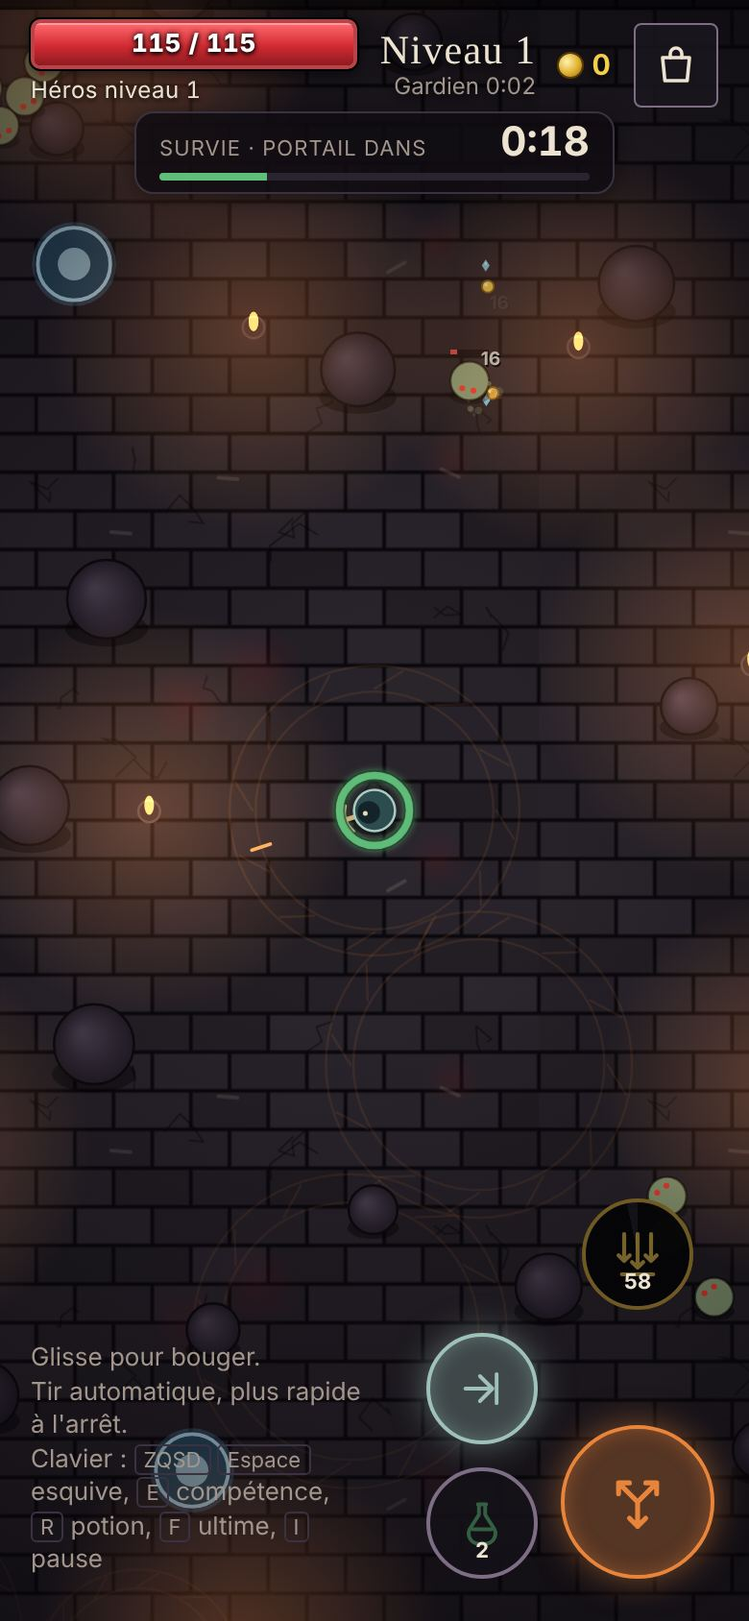
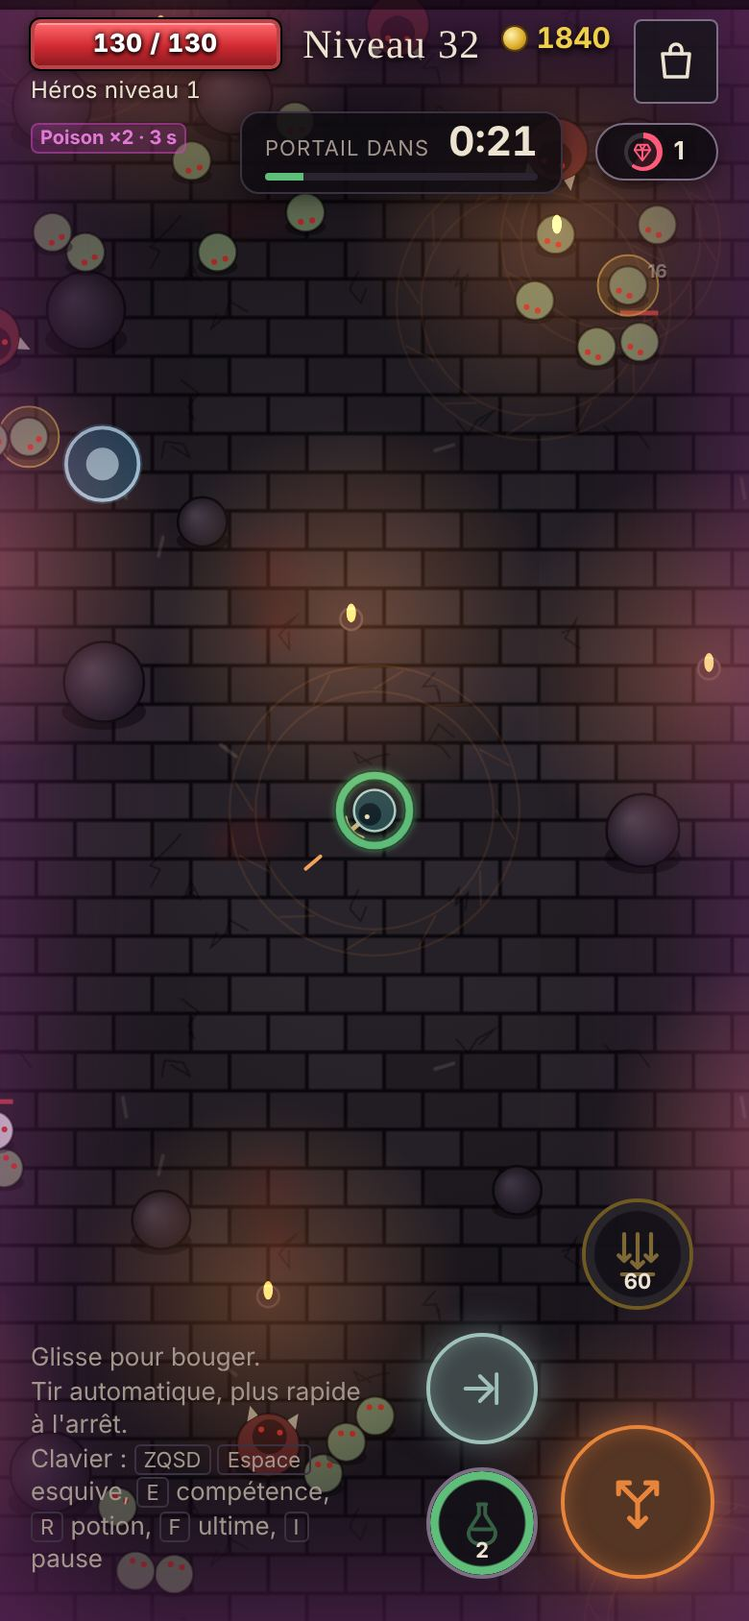
HUD, capture refonte

diff --git a/aide/index.html b/aide/index.html
@@ -283,9 +283,10 @@ details.more .tbl{margin:0 14px 14px}
   <div class="txt">
     <h2><small>Pendant la partie</small>En mission</h2>
     <ol class="legend">
-      <li><span><b>Barre de vie</b> en haut à gauche, avec tes PV écrits dedans. Le bleu par-dessus est ton bouclier. Sous 30 % de vie, la bordure clignote en rouge.</span></li>
-      <li><span><b>Niveau et alertes</b> : niveau de mission (ou vague). Dessous : « Gardien en approche » dans les 10 s qui précèdent un Gardien (Survie et Capture) et pendant la pause avant une vague à Gardien (Défense), la vague de sortie en Défense, et l'<b>icône de relique</b> avec le nombre de reliques ouvertes. L'icône prend la couleur de la relique en cours et son anneau se remplit avec les réactifs ramassés. Aucun minuteur de Gardien n'est affiché. Le temps avant le portail ou la vague suivante est dans le bandeau d'objectif.</span></li>
-      <li><span><b>Bandeau d'objectif</b> (au centre, sous le haut de l'écran) : ce qu'il faut faire et la valeur à surveiller, en grand, avec une jauge. Survie : temps avant le portail (orange et pulsant sous 15 s). Capture : les trois étapes, 1/3 mettre la cible à terre (distance), 2/3 la capturer (pourcentage), 3/3 rejoindre l'extraction (distance, puis pourcentage). Défense : temps avant la vague suivante ou ennemis restants, jauge = vie du cryopode.</span></li>
+      <li><span><b>Barre de vie</b> en haut à gauche, avec tes PV écrits dedans. Le bleu par-dessus est ton bouclier. Sous 30 % de vie, la bordure clignote en rouge. Dessous, en colonne : tes <b>altérations</b> (Poison, Brûlure, Gelure) et la Frénésie, avec les secondes restantes.</span></li>
+      <li><span><b>Niveau et alertes</b> : niveau de mission (Survie), vague (Défense) ou nombre de captures (Capture). Dessous : « Gardien en approche » dans les 10 s qui précèdent un Gardien (Survie et Capture) et pendant la pause avant une vague à Gardien (Défense), la vague de sortie en Défense, et en Capture la distance de l'extraction ou le délai avant la cible suivante. Aucun minuteur de Gardien n'est affiché. Le temps avant le portail ou la vague suivante est dans le bandeau d'objectif.</span></li>
+      <li><span><b>Reliques</b> : pastille à l'extrême droite, sous le sac, quand tu as équipé des reliques. L'icône prend la couleur de la relique en cours, son anneau se remplit avec les réactifs ramassés, et le nombre compte les reliques ouvertes.</span></li>
+      <li><span><b>Bandeau d'objectif</b> (au centre, en 2e ligne, entre les altérations et les reliques) : ce qu'il faut faire et la valeur à surveiller, en grand, avec une jauge. Survie : « Portail dans » et le temps (orange et pulsant sous 15 s). Capture : « Traque la cible 2 » (distance, la jauge montre ses PV perdus), « Capture la cible 2 » (pourcentage), « Vers l'extraction » (distance), « Reste dans la zone » (pourcentage). Défense : « Vague suivante » (temps) ou « Ennemis restants », jauge = vie du cryopode. Les barres du Gardien et du cryopode s'empilent dessous : aucun élément du haut de l'écran n'en recouvre un autre, et les flèches vers les Gardiens, la cible, l'extraction et les sources restent sous le HUD.</span></li>
       <li><span><b>Or</b> ramassé pendant la mission.</span></li>
       <li><span><b>Sac</b> : met en pause. Le butin de la partie vient en premier (▲ sur ce qui est meilleur que ton équipement, « Équiper le meilleur butin »), puis tes bonus, ton équipement, trois chiffres clés, et repliés : toutes les statistiques et les mods. Toucher un objet ouvre sa fiche en bas avec « Équiper maintenant ». Le sac s'ouvre aussi tout seul quand tu changes d'appli ou que l'écran s'éteint : la mission t'attend (en coopération, le monde continue pour les autres). En haut, à côté de la croix : Guide et Réglages. En bas : <b>Retour au Camp</b> et <b>Reprendre</b>. Retour au Camp demande confirmation : la mission est abandonnée et tout ce que tu as trouvé dans ce niveau est perdu (objets, reliques, or et expérience) ; tes reliques équipées ne sont pas consommées. Une pastille signale du nouveau butin.</span></li>
       <li><span><b>Anneau de vie</b> autour du héros : vert, puis jaune, puis rouge pulsant.</span></li>
@@ -320,14 +321,14 @@ details.more .tbl{margin:0 14px 14px}
       <tbody>
         <tr><td><b>Survie</b></td><td>Tenir face aux hordes. Toutes les 2 minutes, un portail s'ouvre : sortir ou continuer au niveau suivant.</td><td>1 relique par manche</td></tr>
         <tr><td><b>Défense</b></td><td>Protéger le cryopode au centre de la carte. Toutes les 3 vagues : sortir ou continuer.</td><td>1 relique et 1 équipement</td></tr>
-        <tr><td><b>Capture</b></td><td>Mettre la cible à terre, rester près d'elle pour la capturer, puis tenir 3 s dans la zone d'extraction. Une flèche dorée la montre.</td><td>1 relique et de l'or</td></tr>
+        <tr><td><b>Capture</b></td><td>Mettre la cible à terre et rester près d'elle pour la capturer. Une nouvelle cible arrive 5 s après chaque capture : enchaîne tant que tu veux, puis tiens 3 s dans la zone d'extraction, ouverte dès la 1re capture. Une flèche dorée montre la cible, une verte l'extraction.</td><td>1 relique de la difficulté (Tourment compris) et de l'or par capture</td></tr>
         <tr><td><b style="color:#ff5fd2">Brèche</b></td><td>À plusieurs seulement (voir <a href="#coop">Coopération</a>). Survie où les Gardiens arrivent par paires de jumeaux à abattre ensemble, en moins de 8 s.</td><td>comme la Survie, plus éclats et sceaux légendaires</td></tr>
       </tbody>
     </table></div>
     <h3>Défense et Capture en détail</h3>
     <ul>
       <li><b>Défense</b> : chaque vague compte un peu plus de monstres que la précédente, et davantage aux niveaux élevés (80 au maximum). Six monstres sur dix visent le cryopode, qui encaisse leurs coups à 60 %. Entre deux vagues, 4 s de répit, et le cryopode récupère 8 % de sa vie (30 % quand tu choisis de continuer). Toutes les 3 vagues : un Gardien, puis une relique, un équipement magique ou mieux, et le choix de sortir.</li>
-      <li><b>Capture</b> : la cible fuit quand tu approches et se téléporte un peu plus loin toutes les 4 à 6 s si tu la serres de près. Mets-la à terre : elle n'est alors plus visée ni touchée par tes attaques, qui se tournent vers les autres monstres. Reste 2,5 s à côté d'elle pour la capturer, puis rejoins la zone d'extraction et tiens-y 3 s (la jauge redescend si tu en sors).</li>
+      <li><b>Capture</b> : la cible fuit quand tu approches et se téléporte un peu plus loin toutes les 4 à 6 s si tu la serres de près. Mets-la à terre : elle n'est alors plus visée ni touchée par tes attaques, qui se tournent vers les autres monstres. Reste 2,5 s à côté d'elle pour la capturer. Chaque capture rapporte une relique de la difficulté choisie, quel que soit le niveau de mission, et 60 or par niveau de mission : Ossuaire en Normal, Difficile et Cauchemar ; Ancestrale en Tourment I à V ; Sanguine en Tourment VI et plus, ou plus rarement Abyssale. Les autres reliques (monstres, Gardiens, fins de manche) gardent leur niveau minimum. La zone d'extraction s'ouvre à la première capture et ne bouge plus. Tant que tu n'es pas extrait, une nouvelle cible apparaît 5 s après chaque capture, loin de toi : tu enchaînes autant de captures que tu veux. Pour rentrer avec tout, tiens 3 s dans la zone d'extraction (la jauge redescend si tu en sors).</li>
     </ul>
     <h3>Sortir ou continuer</h3>
     <p><b>Sortir avec le butin</b> garde tout ce que tu as ramassé. <b>Continuer</b> fait monter le niveau : monstres plus forts, meilleur butin, et le niveau atteint devient disponible comme niveau de départ.</p>
@@ -591,7 +592,7 @@ details.more .tbl{margin:0 14px 14px}
     <h3>Fusion</h3>
     <p>Si la cible a déjà cette affixe, les deux valeurs fusionnent : la plus forte + 50 % de la plus faible, 3 fois au maximum par affixe.</p>
     <h3>Chercher par affixe</h3>
-    <p>La liste regroupe toutes les affixes de tes objets, filtrables en Offensives, Défensives et Utilitaires, avec la meilleure valeur et l'objet qui la porte. Ouvre une affixe : chaque objet qui la porte (armes comprises) a deux boutons, <b>Source</b> (l'objet sera détruit et cette affixe prise) et <b>Cible</b> (l'objet reçoit l'affixe). Tout objet peut être source, armes comprises, sauf les objets verrouillés et les armes de départ : ceux-là n'ont que le bouton Cible. Une arme détruite comme source est remplacée par un de ses doubles s'il y en a, sinon le héros reprend son arme de départ. L'objet choisi affiche une pastille « − Source » ou « + Cible ».</p>
+    <p>La liste regroupe toutes les affixes de tes objets, filtrables en Offensives, Défensives et Utilitaires, avec la meilleure valeur et l'objet qui la porte. Ouvre une affixe : tous les objets qui la portent (armes comprises), de la meilleure valeur à la plus faible, ont deux boutons, <b>Source</b> (l'objet sera détruit et cette affixe prise) et <b>Cible</b> (l'objet reçoit l'affixe). Tout objet peut être source, armes comprises, sauf les objets verrouillés et les armes de départ : ceux-là n'ont que le bouton Cible. Une arme détruite comme source est remplacée par un de ses doubles s'il y en a, sinon le héros reprend son arme de départ. L'objet choisi affiche une pastille « − Source » ou « + Cible ».</p>
     <h3>Alertes de butin</h3>
     <p>Coche les affixes que tu recherches : en mission, un flash t'avertira quand l'une tombe avec une meilleure valeur que ton équipement.</p>
     <h3>Sceaux légendaires</h3>
@@ -678,7 +679,7 @@ details.more .tbl{margin:0 14px 14px}
     <div class="tbl"><table>
       <thead><tr><th>Sujet</th><th>En coopération</th></tr></thead>
       <tbody>
-        <tr><td>Mission</td><td>Survie, Défense, Capture ou Brèche, au niveau, biome et difficulté choisis par l'hôte. En Capture, n'importe quel héros debout capture la cible et valide l'extraction ; chacun reçoit sa relique de capture. En Défense, le cryopode est commun.</td></tr>
+        <tr><td>Mission</td><td>Survie, Défense, Capture ou Brèche, au niveau, biome et difficulté choisis par l'hôte. En Capture, n'importe quel héros debout capture la cible et valide l'extraction ; chacun reçoit sa relique à chaque capture, et la cible suivante est la même pour tous. En Défense, le cryopode est commun.</td></tr>
         <tr><td>Monstres</td><td>Partagés ; par joueur en plus, +50 % de vie et 40 % plus nombreux (à 4 : vie ×2,5, nombre ×2,2) ; ils visent le héros debout le plus proche</td></tr>
         <tr><td>Héros</td><td>Chacun joue le héros choisi sur son propre téléphone, avec l'équipement, les mods, le prestige et les reliques enregistrés sur cet appareil. Il peut changer de héros sur l'écran d'accueil entre deux missions, autant qu'il veut, sans couper la connexion.</td></tr>
         <tr><td>Noms</td><td>Chaque joueur apparaît sous son nom, précédé du niveau de prestige du héros qu'il joue (pastille dorée) : dans la liste des joueurs, dans les messages et au-dessus de lui en mission. Le nom se règle dans <a href="#reglages">Réglages › Compte</a> ; sans nom, c'est ton identifiant unique (Joueur-XXXXX). Changer de nom, de héros ou de prestige se voit tout de suite chez les autres, sans couper la connexion.</td></tr>

diff --git a/js/render.js b/js/render.js
@@ -179,8 +179,8 @@ function render2D(){
   // écran : flèches vers les Gardiens, joystick
   ctx.setTransform(dpr,0,0,dpr,0,0);
   const arrow=(wx,wy,col,label)=>{if(vis(wx,wy,-10))return;
-    const a=Math.atan2(wy-G.cam.y,wx-G.cam.x),cx=innerWidth/2,cy=innerHeight/2,hw=innerWidth/2-34,hh=innerHeight/2-130;
-    const k=Math.min(hw/Math.abs(Math.cos(a)||1e-6),hh/Math.abs(Math.sin(a)||1e-6)),x=cx+Math.cos(a)*k,y=cy+Math.sin(a)*k;
+    const a=Math.atan2(wy-G.cam.y,wx-G.cam.x),cx=innerWidth/2,cy=innerHeight/2;
+    const k=arrowK(a,cx,cy),x=cx+Math.cos(a)*k,y=cy+Math.sin(a)*k;
     ctx.save();ctx.translate(x,y);ctx.rotate(a);ctx.fillStyle=col;ctx.strokeStyle='#120c16';ctx.lineWidth=2;ctx.beginPath();ctx.moveTo(14,0);ctx.lineTo(-8,-10);ctx.lineTo(-3,0);ctx.lineTo(-8,10);ctx.closePath();ctx.fill();ctx.stroke();ctx.restore();
     if(label){ctx.font="700 12px 'Alegreya Sans',system-ui,sans-serif";ctx.textAlign='center';ctx.fillStyle='#000';ctx.fillText(label,x-Math.cos(a)*26+1,y-Math.sin(a)*26+5);ctx.fillStyle=col;ctx.fillText(label,x-Math.cos(a)*26,y-Math.sin(a)*26+4)}};
   const m=(x,y)=>`${Math.round(Math.hypot(x-P.x,y-P.y)/10)} m`;
@@ -202,6 +202,14 @@ const setTx=(id,v)=>{const e=el(id);if(e._v!==v){e._v=v;e.textContent=v}};
 const setSt=(id,p,v)=>{const e=el(id),k='_s'+p;if(e[k]!==v){e[k]=v;e.style.setProperty(p,v)}};
 const setCls=(id,c,on)=>{const e=el(id);if(e.classList.contains(c)!==on)e.classList.toggle(c,on)};
 const setHid=(id,h)=>{const e=el(id);if(e.hidden!==h)e.hidden=h};
+// Flèches hors écran (Gardiens, cible, extraction, cryopode, source) : elles restent sous le HUD du haut, mesuré
+// (1re ligne, altérations, colonne du milieu, reliques), et au-dessus des boutons, pour ne jamais passer sur le HUD.
+let hudBot=0,hudBotAt=-1e9;
+function hudBottom(){const now=performance.now();if(now-hudBotAt<400)return hudBot;hudBotAt=now;let b=0;
+  for(const s of ['.hud','#hpBox .sts','.hudmid','#relHud']){const e=document.querySelector(s);if(!e||e.hidden)continue;const r=e.getBoundingClientRect();if(r.height>0)b=Math.max(b,r.bottom)}
+  return hudBot=b}
+function arrowK(a,cx,cy){const T=Math.min(cy-40,Math.max(130,hudBottom()+30)),B=innerHeight-130,c=Math.cos(a),s=Math.sin(a);
+  return Math.min(c>0?(innerWidth-34-cx)/c:c<0?(cx-34)/-c:1e9,s<0?(cy-T)/-s:s>0?(B-cy)/s:1e9)}
 function hud(){
   const P=G.P,r3=v=>Math.max(0,v).toFixed(3);
   setSt('hpFill','transform',`scaleX(${r3(P.hp/S.hp)})`);
@@ -211,14 +219,16 @@ function hud(){
   setSt('xpFill','transform',`scaleX(${r3(Math.min(1,G.xp/xpNeed(G.hl)))})`);
   const dm=(x,y)=>`${Math.round(Math.hypot(x-P.x,y-P.y)/10)} m`;let hot=false;
   let ok='',ov='',op=null,oc='#f0cf4a';
-  if(G.mode==='survie'){const left=Math.max(0,LEVEL_T-G.tl);hot=left<=15;setTx('lvlTxt',`Niveau ${G.level}`);ok='Survie · portail dans';ov=fmt(left);op=G.tl/LEVEL_T;oc='#5fbf7a';{const g=G.bossT<=10?'Gardien en approche':'';setTx('bossTxt',g);setHid('bossTxt',!g)}}
-  else if(G.mode==='defense'){setTx('lvlTxt',`Vague ${Math.max(1,G.wave)}`);if(G.waveState==='break'){ok='Défense · vague suivante';ov=fmt(G.waveT)}else{ok='Défense · ennemis restants';ov=String(G.toSpawn+G.en.length)}op=G.pod.hp/G.pod.max;oc='#8fd3e0';
+  if(G.mode==='survie'){const left=Math.max(0,LEVEL_T-G.tl);hot=left<=15;setTx('lvlTxt',`Niveau ${G.level}`);ok='Portail dans';ov=fmt(left);op=G.tl/LEVEL_T;oc='#5fbf7a';{const g=G.bossT<=10?'Gardien en approche':'';setTx('bossTxt',g);setHid('bossTxt',!g)}}
+  else if(G.mode==='defense'){setTx('lvlTxt',`Vague ${Math.max(1,G.wave)}`);if(G.waveState==='break'){ok='Vague suivante';ov=fmt(G.waveT)}else{ok='Ennemis restants';ov=String(G.toSpawn+G.en.length)}op=G.pod.hp/G.pod.max;oc='#8fd3e0';
     {const g=G.waveState==='break'&&(G.wave+1)%DEF_N===0?'Gardien en approche':`Sortie vague ${Math.ceil(Math.max(1,G.wave+(G.waveState==='break'?1:0))/DEF_N)*DEF_N}`;setTx('bossTxt',g);setHid('bossTxt',false)}setSt('objFill','transform',`scaleX(${r3(G.pod.hp/G.pod.max)})`);hot=G.pod.hp<G.pod.max*.3}
-  else{setTx('lvlTxt','Capture');const t=G.target;
-    if(G.exitPt){ok=G.extT>0?'3/3 · reste dans la zone':'3/3 · rejoins l\'extraction';ov=G.extT>0?`${Math.min(100,Math.round(G.extT/EXT_T*100))} %`:dm(G.exitPt.x,G.exitPt.y);op=G.extT/EXT_T;oc='#5fbf7a';hot=true}
-    else if(t&&t.downed){ok='2/3 · capture la cible';ov=`${Math.round(G.capT/2.5*100)} %`;op=G.capT/2.5}
-    else if(t){ok='1/3 · mets la cible à terre';ov=dm(t.x,t.y);op=1-t.hp/t.max}
-    {const g=G.bossT<=10?'Gardien en approche':'';setTx('bossTxt',g);setHid('bossTxt',!g)}}
+  else{const t=G.target,ex=G.exitPt,c=G.capN|0,n=c+1;setTx('lvlTxt',c?`${c} capture${c>1?'s':''}`:'Capture');
+    // Capture en chaîne : la zone d'extraction reste ouverte après la 1re capture, la cible suivante arrive peu après.
+    if(ex&&G.extT>0){ok='Reste dans la zone';ov=`${Math.min(100,Math.round(G.extT/EXT_T*100))} %`;op=G.extT/EXT_T;oc='#5fbf7a';hot=true}
+    else if(t&&t.downed){ok=`Capture la cible ${n}`;ov=`${Math.round(G.capT/2.5*100)} %`;op=G.capT/2.5}
+    else if(t){ok=`Traque la cible ${n}`;ov=dm(t.x,t.y);op=1-t.hp/t.max}
+    else if(ex){ok='Vers l\'extraction';ov=dm(ex.x,ex.y);op=0;oc='#5fbf7a'}
+    {const g=G.bossT<=10?'Gardien en approche':ex&&t?`Extraction · ${dm(ex.x,ex.y)}`:ex&&G.nextTgt>0?`Cible ${n} dans ${Math.ceil(G.nextTgt)} s`:'';setTx('bossTxt',g);setHid('bossTxt',!g)}}
   setTx('objK',ok);setTx('timeTxt',ov);setHid('objBox',!ok);setSt('objFill2','transform',`scaleX(${op==null?0:r3(Math.max(0,Math.min(1,op)))})`);setSt('objFill2','--c',oc);setCls('objBox','hot',hot);
   // Reliques : icône à la couleur de la relique en cours (anneau = réactifs ramassés) et nombre de reliques ouvertes
   setHid('relHud',!G.relQ.length);if(G.relQ.length){const r=G.relic||G.opened[G.opened.length-1]||G.relQ[0];setTx('relN',String(G.opened.length));
@@ -460,8 +470,8 @@ function renderPixi(){
   // interface : flèches, joystick
   const g=L.uiG;g.clear();
   const arrow=(wx,wy,col,label)=>{if(vis(wx,wy,-10))return;const c=hexc(col);
-    const a=Math.atan2(wy-G.cam.y,wx-G.cam.x),cx=innerWidth/2,cy=innerHeight/2,hw=innerWidth/2-34,hh=innerHeight/2-130;
-    const k=Math.min(hw/Math.abs(Math.cos(a)||1e-6),hh/Math.abs(Math.sin(a)||1e-6)),x=cx+Math.cos(a)*k,y=cy+Math.sin(a)*k,ca=Math.cos(a),sa=Math.sin(a);
+    const a=Math.atan2(wy-G.cam.y,wx-G.cam.x),cx=innerWidth/2,cy=innerHeight/2;
+    const k=arrowK(a,cx,cy),x=cx+Math.cos(a)*k,y=cy+Math.sin(a)*k,ca=Math.cos(a),sa=Math.sin(a);
     const pt=(px,py)=>[x+px*ca-py*sa,y+px*sa+py*ca];
     g.lineStyle(2,0x120c16,1);g.beginFill(c,1);g.moveTo(...pt(14,0));g.lineTo(...pt(-8,-10));g.lineTo(...pt(-3,0));g.lineTo(...pt(-8,10));g.closePath();g.endFill();
     if(label){const b=take(PP.utxt);if(b.text!==label)b.text=label;b.fontSize=12;b.tint=c;b.alpha=1;b.position.set(x-ca*26,y-sa*26+6)}};

diff --git a/js/game.js b/js/game.js
@@ -28,7 +28,7 @@ function newGame(){
   G.cam={x:G.P.x,y:G.P.y};
   genMap();
   G.biome=clamp(meta.biome|0,0,BIOMES.length-1);if(floorPat&&floorPat.__b!==G.biome)floorPat=null;
-  G.mode=meta.mode==='breche'?'survie':meta.mode;G.relic=null;G.react=0;G.cracked=false;G.ult=0;G.bossT=bossIv();G.pod=null;G.target=null;G.exitPt=null;G.capT=0;G.extT=0;
+  G.mode=meta.mode==='breche'?'survie':meta.mode;G.relic=null;G.react=0;G.cracked=false;G.ult=0;G.bossT=bossIv();G.pod=null;G.target=null;G.exitPt=null;G.capT=0;G.extT=0;G.capN=0;G.nextTgt=0;
   relicQFix();G.relQ=meta.relicQ.map(q=>({id:q.id,rad:!!q.rad}));G.relI=0;G.opened=[];G.relic=G.relQ[0]||null;
   if(G.mode==='defense'){const m=1200*(1+.5*(L-1));G.pod={x:MAP/2,y:MAP/2,r:28,hp:m,max:m,flash:0};G.pillars.push(G.pod);G.P.y+=110;G.cam.y=G.P.y;G.wave=0;G.waveState='break';G.waveT=3;G.toSpawn=0}
   if(G.mode==='capture'){spawnTarget()}
@@ -50,13 +50,17 @@ function genMap(){
   G.wells=[];for(let i=0;i<6;i++){const w={r:30,on:true,cd:0};placeWell(w);G.wells.push(w)}
 }
 function farPoint(dmin){const P=G.P;for(let k=0;k<300;k++){const x=rand(160,MAP-160),y=rand(160,MAP-160);if(Math.hypot(x-P.x,y-P.y)>=dmin&&!blocked(x,y,60))return {x,y}}return {x:MAP-200,y:MAP-200}}
+// Capture : après chaque capture, tant qu'on ne s'est pas extrait, une nouvelle cible apparaît (CAP_NEXT secondes plus tard).
+// Chaque capture rapporte une relique de la difficulté et du Tourment, sans le plafond de niveau de mission des autres reliques
+// (relicDrop(true)). Les autres sources de reliques ne changent pas.
+const CAP_NEXT=5;
 function spawnTarget(){
   const p=farPoint(900),{hs}=diff();
-  G.target={type:'cible',x:p.x,y:p.y,r:18,hp:260*hs,max:260*hs,spd:175,dmg:0,col:'#a8874a',flash:0,hitCd:0,kx:0,ky:0,burnT:0,burnDps:0,burnAcc:0,
+  G.target={id:++G.eid,type:'cible',x:p.x,y:p.y,r:18,hp:260*hs,max:260*hs,spd:175,dmg:0,col:'#a8874a',flash:0,hitCd:0,kx:0,ky:0,burnT:0,burnDps:0,burnAcc:0,
     state:'walk',slow:0,timer:0,blink:4,shown:0,wob:rand(0,6),downed:false};
   G.en.push(G.target);
 }
-function relicDrop(){return ['os','an','sa','ab'][relicTierNow()]}
+function relicDrop(free){return ['os','an','sa','ab'][relicTierNow(free)]}
 const LV_MAX=50;
 const lootMul=L=>1+.06*(L-1);
 const goldMul=L=>1+.15*(L-1);
@@ -264,8 +268,8 @@ function explode(s,primary,frost){
 function fireE(e,a,sp,d,r=7){G.eb.push({id:++G.bid,x:e.x+Math.cos(a)*e.r,y:e.y+Math.sin(a)*e.r,vx:Math.cos(a)*sp,vy:Math.sin(a)*sp,d,r,life:4})}
 function ring(e,n,sp){e.rot+=.27;for(let i=0;i<n;i++)fireE(e,e.rot+i/n*Math.PI*2,sp,e.dmg*.55,8)}
 // Récompense de capture (chaque joueur reçoit la sienne).
-function capReward(){const r=relicDrop();G.loot.relics.push(r);G.fresh++;G.gold+=60*G.level;
-  toast(`<b style="color:var(--r2)">Cible capturée.</b> Relique ${relicName(r)} et ${60*G.level} or. Rejoins l'extraction.`)}
+function capReward(){const r=relicDrop(true);G.loot.relics.push(r);G.fresh++;G.gold+=60*G.level;
+  toast(`<b style="color:var(--r2)">Cible capturée.</b> ${relicName(r)} et ${60*G.level} or. Rejoins l'extraction, ou traque la cible suivante.`)}
 function blocked(x,y,r){
   if(x<EDGE+r||x>MAP-EDGE-r||y<EDGE+r||y>MAP-EDGE-r)return true;
   for(const p of G.pillars){if(p===G.pod)continue;const m=p.r+r;if(Math.abs(p.x-x)<m&&Math.abs(p.y-y)<m&&Math.hypot(p.x-x,p.y-y)<m)return true}
@@ -417,9 +421,10 @@ function update(dt){
   // Capture : décidée par l'hôte (en coopération, n'importe quel héros debout compte pour capturer et pour l'extraction).
   if(G.mode==='capture'&&!NET.guest){
     const t=G.target,heroes=[P,...(G.mates||[])].filter(h=>!h.down),near=(x,y,r)=>heroes.some(h=>Math.hypot(x-h.x,y-h.y)<r);
-    if(t&&t.downed){if(near(t.x,t.y,80)){G.capT+=dt;if(G.capT>=2.5){G.en=G.en.filter(e=>e!==t);G.target=null;burst(t.x,t.y,36,'#f0cf4a',220);
-        G.exitPt=farPoint(1000);capReward();if(NET.host)netSend({t:'cap'})}}
+    if(t&&t.downed){if(near(t.x,t.y,80)){G.capT+=dt;if(G.capT>=2.5){G.en=G.en.filter(e=>e!==t);G.target=null;G.capT=0;G.capN++;burst(t.x,t.y,36,'#f0cf4a',220);
+        if(!G.exitPt)G.exitPt=farPoint(1000);G.nextTgt=CAP_NEXT;capReward();if(NET.host)netSend({t:'cap'})}}
       else G.capT=Math.max(0,G.capT-dt)}
+    if(!G.target&&G.nextTgt>0){G.nextTgt-=dt;if(G.nextTgt<=0){G.nextTgt=0;spawnTarget()}}
     if(G.exitPt){const inZ=near(G.exitPt.x,G.exitPt.y,55);
       if(inZ){if(G.extT===0)toast('Reste <b>3 s</b> dans la zone pour t\'extraire.');G.extT+=dt;if(G.extT>=EXT_T){missionSuccess();return}}
       else G.extT=Math.max(0,G.extT-dt*1.5)}

diff --git a/js/camp.js b/js/camp.js
@@ -227,9 +227,9 @@ function affFinder(){
   h+='<ul class="afind">'+keys.map(k=>{const L=by[k],b=L[0],open=afOpen===k,mine=d&&d.aff[k]!=null?affEff(d,k):null;
     const row=`<button class="afrow" data-cact="afopen" data-arg="${k}" aria-expanded="${open}"><span class="afn">${AFF_NAME[k]||k}</span><span class="afv">${affShort(k,b.v)}</span><span class="afs">max · <b style="color:${RARV[b.it.r]}">${esc(itemName(b.it))}</b> · ${b.w}${L.length>1?` · ${L.length} objets`:''}${mine!=null?` · ta cible : ${affShort(k,mine)}`:''}</span><span class="afc" aria-hidden="true">${open?'▴':'▾'}</span></button>`;
     if(!open)return `<li>${row}</li>`;
-    return `<li class="open">${row}<ul>${L.slice(0,10).map((o,i)=>{const isS=xf.src===o.key&&xf.k===k,isD=xf.dst===o.key,canS=xfSrcOk(o.key)&&!isD;
+    return `<li class="open">${row}<ul>${L.map((o,i)=>{const isS=xf.src===o.key&&xf.k===k,isD=xf.dst===o.key,canS=xfSrcOk(o.key)&&!isD;
       return `<li><span><b style="color:${RARV[o.it.r]}">${esc(itemName(o.it))}</b>${o.it.lock?` <span class="li" aria-label="verrouillé">${LOCK_SVG}</span>`:''} · ${o.w}<br><span class="afv2">${affShort(k,o.v)}</span>${i===0?' <span class="cx-tag cx-tag--heal">max</span>':''}</span>
-        <span style="display:flex;gap:6px;flex-shrink:0">${isS?'<span class="cx-pin cx-pin--src" style="position:static">Source</span>':!canS&&!isD?'':`<button class="cx-btn cx-btn--sm" data-cact="afuse" data-arg="${k}|${o.key}" ${!canS?'disabled':''} title="${canS?'':'Arme de départ : elle ne peut pas être détruite'}">Source</button>`}${isD?'<span class="cx-pin cx-pin--dst" style="position:static">Cible</span>':`<button class="cx-btn cx-btn--sm" data-cact="afdst" data-arg="${o.key}" ${xf.src===o.key?'disabled':''}>Cible</button>`}</span></li>`}).join('')}${L.length>10?`<li class="cx-hint" style="margin:0">… et ${L.length-10} autres, plus faibles.</li>`:''}</ul></li>`}).join('')+'</ul></section>';
+        <span style="display:flex;gap:6px;flex-shrink:0">${isS?'<span class="cx-pin cx-pin--src" style="position:static">Source</span>':!canS&&!isD?'':`<button class="cx-btn cx-btn--sm" data-cact="afuse" data-arg="${k}|${o.key}" ${!canS?'disabled':''} title="${canS?'':'Arme de départ : elle ne peut pas être détruite'}">Source</button>`}${isD?'<span class="cx-pin cx-pin--dst" style="position:static">Cible</span>':`<button class="cx-btn cx-btn--sm" data-cact="afdst" data-arg="${o.key}" ${xf.src===o.key?'disabled':''}>Cible</button>`}</span></li>`}).join('')}</ul></li>`}).join('')+'</ul></section>';
   return h;
 }
 const RARV=['var(--rar-common)','var(--rar-magic)','var(--rar-rare)','var(--rar-legend)','var(--rar-anc)','var(--rar-sang)','var(--rar-aby)'];

diff --git a/css/game.css b/css/game.css
@@ -1170,3 +1170,28 @@ body:has(#camp:not([hidden])) .toast,body:has(#bag:not([hidden])) .toast{top:cal
 .code4in:focus{outline:none;border-color:var(--ember-hi)}
 .code4in::placeholder{letter-spacing:normal;font-weight:400;font-size:15px;color:var(--muted)}
 .coopros .kickb{margin-left:2px;padding-inline:8px;min-height:30px}
+/* HUD en mission (v117) : rien ne se superpose.
+   1re ligne alignée en haut (vie, niveau, or, sac). En dessous, trois colonnes : à gauche les altérations (empilées),
+   au milieu le bandeau d'objectif puis les barres de Gardien et de cryopode, à droite les reliques ouvertes (pastille). */
+:root{--hud-l:92px;--hud-r:64px;--hud-row2:calc(env(safe-area-inset-top,0px) + 64px)}
+.hud{align-items:flex-start}
+.room{align-self:center}
+#hpBox .sts{position:fixed;left:max(16px,env(safe-area-inset-left,0px));top:var(--hud-row2);flex-direction:column;align-items:flex-start;gap:4px;width:var(--hud-l);margin:0}
+#hpBox .sts span{max-width:var(--hud-l);box-sizing:border-box;overflow:hidden;text-overflow:ellipsis;font-size:10px;padding:1px 4px}
+/* colonne du milieu : bandeau d'objectif, puis Gardien, puis cryopode, empilés (jamais l'un sur l'autre) */
+.hudmid{position:fixed;top:calc(env(safe-area-inset-top,0px) + 58px);left:calc(16px + var(--hud-l) + 8px);right:calc(16px + var(--hud-r) + 8px);
+  display:flex;flex-direction:column;align-items:center;gap:6px;pointer-events:none;z-index:5}
+.hudmid>.objbox,.hudmid>.boss{position:static;left:auto;right:auto;top:auto;transform:none;margin:0}
+.objbox{width:max-content;min-width:0;max-width:100%;box-sizing:border-box}
+.objrow{flex-wrap:wrap;justify-content:center;column-gap:10px;row-gap:0}
+.objk{max-width:100%}
+.hudmid>.boss{width:100%;max-width:360px}
+.boss b{display:block;font-size:16px;white-space:nowrap;overflow:hidden;text-overflow:ellipsis}
+.hp-num{white-space:nowrap}
+/* reliques ouvertes : pastille à l'extrême droite, en 2e ligne (anneau = réactifs de la relique en cours) */
+#relHud{position:fixed;right:max(16px,env(safe-area-inset-right,0px));top:var(--hud-row2);height:30px;min-width:var(--hud-r);box-sizing:border-box;padding:0 9px 0 6px;gap:6px;justify-content:center;
+  border:1px solid var(--line-strong,#4a4050);border-radius:15px;background:rgba(15,12,18,.85);box-shadow:0 2px 8px rgba(0,0,0,.4)}
+#relHud .rring{width:20px;height:20px}#relHud .rring i{width:15px;height:15px}#relHud svg{width:11px;height:11px}
+.room #relHud b{font:700 13px/1 var(--font-body)}
+/* très petits écrans (320 px) : la 1re ligne garde la place pour la barre de vie */
+@media (max-width:340px){.room b{font-size:17px}.hud .gold{font-size:13px}.hud{gap:8px}}

diff --git a/js/data.js b/js/data.js
@@ -159,8 +159,9 @@ const EGG_CH=[.08,.12,.15,.25];
 const REL_SRC=['Normal, Difficile et Cauchemar (et plus haut sous le niveau requis)',`Tourment I et plus, niveau ${BAL.relicLv[0]}+`,`Tourment VI et plus, niveau ${BAL.relicLv[1]}+`,`Tourment VI et plus, niveau ${BAL.relicLv[2]}+, plus rare`];
 // Reliques forgées : 3 reliques d'un même type donnent une relique forgée du même type, qui garantit un fragment de l'objet choisi.
 // La rareté dépend du palier de Tourment, plafonnée par le niveau de mission (BAL.relicLv) : sous le niveau requis, la relique du dessous.
-function relicTierNow(){const D=dif();if(!D.tier)return 0;let t=D.tier<=5?1:Math.random()<BAL.abyss[0]+BAL.abyss[1]*(D.tier-6)?3:2;
-  const L=(typeof G!=='undefined'&&G&&G.level)||1;while(t>0&&L<BAL.relicLv[t-1])t--;return t}
+// free : sans ce plafond (cibles capturées : la relique suit seulement la difficulté et le Tourment).
+function relicTierNow(free){const D=dif();if(!D.tier)return 0;let t=D.tier<=5?1:Math.random()<BAL.abyss[0]+BAL.abyss[1]*(D.tier-6)?3:2;
+  if(free)return t;const L=(typeof G!=='undefined'&&G&&G.level)||1;while(t>0&&L<BAL.relicLv[t-1])t--;return t}
 const relicName=id=>RELICS[id].n;
 // Contenu d'une relique : les objets de sa rareté (armes du héros comprises). Objets de givre seulement dans les Abîmes gelés.
 function relPool(t,cls=heroCls){const r=t+3,frost=typeof G!=='undefined'&&G&&G.biome===1;
@@ -208,7 +209,7 @@ const MODES={
   survie:{n:'Survie',d:'Tiens face aux hordes. Toutes les 2 minutes, sors ou continue. Chaque manche terminée rapporte une relique.'},
   defense:{n:'Défense',d:'Protège le cryopode contre des vagues d\'ennemis. Toutes les 3 vagues : une relique et un équipement, puis sors ou continue.'},
   breche:{n:'Brèche',coop:1,d:'À plusieurs seulement. Survie où les Gardiens viennent par paires de jumeaux : abattez les deux en moins de 8 s, sinon le premier se relève. Monstres +25 % de vie ; sceaux légendaires et éclats sur les Gardiens et les élites.'},
-  capture:{n:'Capture',d:'Traque la cible, mets-la à terre, capture-la puis tiens 3 s dans la zone d\'extraction. Une relique et de l\'or à la clé.'},
+  capture:{n:'Capture',d:'Traque la cible, mets-la à terre et capture-la : une relique de la difficulté (Tourment compris) et de l\'or. Une autre cible arrive ensuite ; tiens 3 s dans la zone d\'extraction quand tu veux partir.'},
 };
 
 /* ---------- Progression permanente ---------- */

diff --git a/js/unlock.js b/js/unlock.js
@@ -24,7 +24,7 @@ const UNL=[
   {k:'arms',n:'Armurerie · Mes armes',when:()=>Object.values(WPN).flat().some(w=>!w.start&&ownedW(w.id))||maxL()>=8,need:'Trouve une deuxième arme.',
     learn:'Toutes tes armes, de chaque héros, avec leur rang et leur DPS comparé à celle que tu portes. Une arme trouvée en double se fusionne pour monter de rang.',go:['arsenal','mine'],help:'camp-arsenal'},
   {k:'capture',n:'Mission Capture',when:()=>maxL()>=10,need:'Réussis une mission de niveau 10.',
-    learn:'Traque une cible qui fuit, mets-la à terre, capture-la puis tiens 3 s dans la zone d\'extraction. Une relique et de l\'or à la clé.',home:1,help:'missions'},
+    learn:'Traque une cible qui fuit, mets-la à terre et capture-la : une relique de la difficulté (Tourment compris) et de l\'or. Une autre cible arrive ensuite ; tiens 3 s dans la zone d\'extraction pour rentrer avec tout.',home:1,help:'missions'},
   {k:'affix',n:'Forge · Affixes',when:()=>maxL()>=12||ownedRar(3),need:'Fabrique un objet légendaire ou réussis une mission de niveau 12.',
     learn:'Prends une affixe sur un objet (la source, détruite) pour la poser sur un autre (la cible) : c\'est ainsi qu\'on construit un build précis. Le coût en essence dépend de la rareté de la source.',go:['forge','affix'],help:'camp-affix'},
   {k:'diff1',n:'Difficulté Difficile',when:()=>maxL()>=12,need:'Réussis une mission de niveau 12.',

diff --git a/js/net.js b/js/net.js
@@ -243,10 +243,10 @@ function netHeroTick(){if(!NET.on||!started||!G||G.over)return;hSeq++;
   else sendFast({t:'h',q:hSeq,p:heroPack(G.P)})}
 // État propre au mode, envoyé par l'hôte : Défense (cryopode, vagues), Capture (capture, extraction).
 function modeSnap(){if(G.mode==='defense'&&G.pod)return ['d',G.pod.hp|0,G.pod.max|0,G.wave|0,G.waveState==='break'?1:0,r1(G.waveT||0),G.toSpawn|0];
-  if(G.mode==='capture')return ['c',r1(G.capT||0),r1(G.extT||0),G.exitPt?G.exitPt.x|0:-1,G.exitPt?G.exitPt.y|0:-1];return null}
+  if(G.mode==='capture')return ['c',r1(G.capT||0),r1(G.extT||0),G.exitPt?G.exitPt.x|0:-1,G.exitPt?G.exitPt.y|0:-1,G.capN|0,r1(G.nextTgt||0)];return null}
 function modeApply(md){if(!md)return;
   if(md[0]==='d'&&G.pod){G.pod.hp=md[1];G.pod.max=md[2];G.wave=md[3];G.waveState=md[4]?'break':'fight';G.waveT=md[5];G.toSpawn=md[6]}
-  else if(md[0]==='c'){G.capT=md[1];G.extT=md[2];G.exitPt=md[3]>=0?{x:md[3],y:md[4]}:null}}
+  else if(md[0]==='c'){G.capT=md[1];G.extT=md[2];G.exitPt=md[3]>=0?{x:md[3],y:md[4]}:null;G.capN=md[5]|0;G.nextTgt=+md[6]||0}}
 function netTick(){if(!NET.on||!started||!G)return;const now=performance.now();
   if(NET.host){
     for(const p of NET.peers.slice())if(p.state==='open'&&p.lastRx&&now-p.lastRx>NET_TIMEOUT&&!G.over&&!G.hold&&document.visibilityState==='visible')netPeerLost(p,false,'timeout');

diff --git a/js/ui.js b/js/ui.js
@@ -327,7 +327,7 @@ function resolveRelic(){
 }
 function missionSuccess(){SND.play('win');if(NET.host)netSend({t:'exit'});G.hold=false;
   $('extract').hidden=true;$('lvlup').hidden=true;G.over=true;const rel=resolveRelic();const g=bank(true);recordBest();
-  const txt=G.mode==='capture'?`Cible capturée en ${fmt(G.t)}, ${G.kills} ennemis abattus.`:G.mode==='defense'?`Tu as tenu ${G.wave} vagues, ${G.kills} ennemis abattus.`:`Tu es sorti au niveau ${G.level} après ${fmt(G.t)}, avec ${G.kills} ennemis abattus.`;
+  const cn=Math.max(1,G.capN|0),txt=G.mode==='capture'?`${cn>1?cn+' cibles capturées':'Cible capturée'} en ${fmt(G.t)}, ${G.kills} ennemis abattus.`:G.mode==='defense'?`Tu as tenu ${G.wave} vagues, ${G.kills} ennemis abattus.`:`Tu es sorti au niveau ${G.level} après ${fmt(G.t)}, avec ${G.kills} ennemis abattus.`;
   showOver(G.mode==='capture'?'Capture réussie':'Extraction réussie',txt+' Ton butin t\'attend au Camp.',`<span class="coin"></span>+${g} or · ${meta.gold} au total`,
     `<div class="exsum">${lootSummary(true)}</div>`+rel);
 }

diff --git a/index.html b/index.html
@@ -34,9 +34,9 @@
     <span class="badge" id="badge" hidden>0</span>
   </button>
 </div>
-<div class="objbox" id="objBox" hidden><div class="objrow"><span class="objk" id="objK">Survie</span><b id="timeTxt">3:00</b></div><span class="objbar"><i id="objFill2"></i></span></div>
+<div class="hudmid"><div class="objbox" id="objBox" hidden><div class="objrow"><span class="objk" id="objK">Survie</span><b id="timeTxt">3:00</b></div><span class="objbar"><i id="objFill2"></i></span></div>
 <div class="boss" id="bossBar" hidden><b id="bossName">Le Gardien des Cendres</b><div class="hp-bar"><div class="hp-fill" id="bossFill"></div></div></div>
-<div class="boss obj" id="objBar" hidden><b>Cryopode</b><div class="hp-bar"><div class="hp-fill" id="objFill"></div></div></div>
+<div class="boss obj" id="objBar" hidden><b>Cryopode</b><div class="hp-bar"><div class="hp-fill" id="objFill"></div></div></div></div>
 <div class="toast" id="toast"></div>
 <div class="banner" id="banner" role="status" aria-live="polite" hidden></div>
 

diff --git a/sw.js b/sw.js
@@ -1,5 +1,5 @@
 // Crypte des Cendres — cache hors ligne. Change VERSION à chaque mise à jour du jeu.
-const VERSION = 'crypte-v116';
+const VERSION = 'crypte-v117';
 const CORE = ['./', './index.html', './manifest.webmanifest', './css/game.css', './js/rythmes/rapide.js', './js/data.js', './js/game.js', './js/render.js', './js/ui.js', './js/camp.js', './js/inv.js', './js/fuse.js', './js/seal.js', './js/pet.js', './js/tut.js', './js/unlock.js', './js/settings.js', './js/audio.js', './js/relais.js', './js/net.js', './js/main.js', './js/update.js', './js/nav.js', './icons/icon-192.png', './icons/icon-512.png', './icons/maskable-512.png', './icons/apple-touch-icon.png'];
 const EXTERNAL = ['https://cdn.jsdelivr.net/npm/pixi.js@7.4.2/dist/pixi.min.js'];
 

diff --git a/readme.md b/readme.md
@@ -1,6 +1,6 @@
 # Crypte des Cendres — specs
 
-Oct 26, 2026 · @cms · version 116
+Oct 26, 2026 · @cms · version 117
 
 ## Vue d'ensemble
 
@@ -58,7 +58,7 @@ Trois modes, tous avec un niveau de mission libre de 1 à 50, choisi sur l'écra
 
 **Défense** : chaque vague compte 10 + 4 × vague (+8 par niveau au-delà du 1er) ennemis, 80 au maximum. 60 % des ennemis visent le cryopode. Pause de 4 s entre les vagues, le cryopode récupère 8 % ; 30 % quand on continue.
 
-**Capture** : la cible (260 PV × difficulté) fuit quand le héros est à moins de 480 unités et se téléporte à 330 unités toutes les 4 à 6 s s'il est à moins de 260. Une flèche dorée indique sa direction et sa distance.
+**Capture** : la cible (260 PV × difficulté) fuit quand le héros est à moins de 480 unités et se téléporte à 330 unités toutes les 4 à 6 s s'il est à moins de 260. Une flèche dorée indique sa direction et sa distance. Après chaque capture (2,5 s à côté de la cible à terre), une nouvelle cible apparaît 5 s plus tard tant qu'on ne s'est pas extrait ; la zone d'extraction, ouverte à la 1re capture, reste en place (v117). Chaque capture rapporte une relique de la difficulté et du Tourment, sans niveau minimum, et 60 or × niveau de mission.
 
 Fissure (ouverture de reliques) : on équipe au Camp (onglet Reliques, ou ligne Reliques de l'écran de départ) autant de reliques qu'on veut, dans l'ordre choisi (Tout équiper, Tout retirer). Depuis v94, la file du Camp est regroupée par relique et par état (« Relique Ossuaire ×8 », « éclatante ×2 »), dans l'ordre de la première de chaque groupe : ↑ ↓ déplacent le groupe entier, − et + retirent ou ajoutent une relique du groupe. Tant qu'il reste une relique à ouvrir, 10 % des ennemis sont corrompus (BAL.corrupt, rythme rapide) (halo doré, +30 % de vie) et lâchent un réactif. 30 réactifs (BAL.reactN ; moins en Tourment, voir Bonus du Tourment) ouvrent la relique en cours, puis le compteur repart à 0 pour la suivante (icône de relique avec l'anneau des réactifs et nombre de reliques ouvertes, en haut). Depuis v95, l'ouverture ne montre plus ni bannière ni message : seuls le son, la secousse et le compteur la signalent. À la réussite, chaque relique ouverte donne 1 fragment d'un objet de sa rareté (2 si éclatante) et 25 essence. Les reliques non ouvertes, ou toutes en cas d'échec, ne sont pas consommées et restent équipées.
 
@@ -192,7 +192,7 @@ Au niveau L, les chances d'équipement, de relique et d'arme sont multipliées p
 | Sanguin | 6 | 1,8 | 1,4 | fragments, relique Sanguine | 1 000 or |
 | Abyssal | 6 + 1 pouvoir | 2,1 | 1,5 | fragments, relique Abyssale | 1 500 or |
 
-**Reliques** : une par rareté, selon la difficulté seulement : Ossuaire en Normal, Difficile, Cauchemar ; Ancestrale en Tourment I à V ; Sanguine en Tourment VI à X, avec 10 % + 5 % par palier au-delà du V de chances d'être Abyssale (15 % en VI, 35 % en X). Chaque relique ouverte en mission (Fissure : 30 réactifs, moins en Tourment) donne, à la réussite, 1 fragment d'un objet de sa rareté (2 si éclatante, raffinage 50 essence), pris parmi les armes du héros de cette rareté et les objets des reliques de cette rareté ; les objets de givre seulement si la relique est ouverte dans les Abîmes gelés. Tirage pondéré 1 + 0,5 × fragments déjà réunis ; le fragment donné est un manquant s'il en reste. +25 essence par relique, œufs 8 / 12 / 15 / 25 %. **Reliques forgées** : 3 reliques d'un même type (20, 40, 80, 150 essence) → 1 relique forgée de ce type, pour l'objet choisi, qui garantit un fragment de cet objet. La fusion vers le type au-dessus est supprimée.
+**Reliques** : une par rareté, selon la difficulté : Ossuaire en Normal, Difficile, Cauchemar ; Ancestrale en Tourment I à V ; Sanguine en Tourment VI à X, ou Abyssale (part par palier dans le tableau des rythmes). Le niveau de mission plafonne la rareté (Ancestrale dès le niveau 30, Sanguine dès 40, Abyssale dès 45 ; sinon la relique du dessous), sauf pour les cibles capturées, qui donnent la relique de la difficulté à tout niveau (v117). Chaque relique ouverte en mission (Fissure : 30 réactifs, moins en Tourment) donne, à la réussite, 1 fragment d'un objet de sa rareté (2 si éclatante, raffinage 50 essence), pris parmi les armes du héros de cette rareté et les objets des reliques de cette rareté ; les objets de givre seulement si la relique est ouverte dans les Abîmes gelés. Tirage pondéré 1 + 0,5 × fragments déjà réunis ; le fragment donné est un manquant s'il en reste. +25 essence par relique, œufs 8 / 12 / 15 / 25 %. **Reliques forgées** : 3 reliques d'un même type (20, 40, 80, 150 essence) → 1 relique forgée de ce type, pour l'objet choisi, qui garantit un fragment de cet objet. La fusion vers le type au-dessus est supprimée.
 
 **Objets des reliques** (RGEAR, 36) : 2 modèles par emplacement et par rareté, affixes fixes, valeurs tirées au niveau de fabrication : Légendaire L1–L8 (4 affixes), Ancestral N1–N8 (5), Sanguin S1–S10 (6, dont 2 de givre), Abyssal B1–B10 (6 + pouvoir, dont 2 de givre). Un objet fabriqué prend le niveau d'objet de la plus haute mission réussie : 1 + (meta.maxL − 1) × 4 ; meta.maxL monte à chaque sortie réussie.
 
@@ -236,6 +236,14 @@ Au niveau L, les chances d'équipement, de relique et d'arme sont multipliées p
 **v106 · Rythme de progression réglable.** Tous les réglages de vitesse de progression sont regroupés dans `BAL_PRESETS` (haut de `js/data.js`), avec deux rythmes : `rapide` (par défaut) et `long` (environ 80 h). C'est un réglage de développement, pas un choix du joueur (aucun écran ne le propose) : on change de rythme en modifiant la ligne `BAL_MODE`.
 
 **v107 · Rythmes dans des fichiers.** Chaque rythme est un fichier : `js/rythmes/rapide.js` (rythme publié, par défaut) et `js/rythmes/long.js` (fin de jeu visée vers 80 h). Chacun définit `RYTHME` avec les valeurs du tableau ci-dessous, commentées ; `BAL_PRESETS` et `BAL_MODE` disparaissent de `data.js`. Le rythme chargé est celui de la balise `<script src="js/rythmes/….js">` d'`index.html`, placée avant `data.js` (et la liste `CORE` de `sw.js`). Pour un nouveau rythme, on copie un fichier et on change ses valeurs. Le simulateur charge n'importe quel fichier : `--rythme long` ou un chemin. Le joueur ne choisit toujours pas le rythme.
+
+**v117 · HUD sans chevauchement, Capture en chaîne.**
+
+- HUD en mission : rien ne se recouvre de 320 à 430 px de large. Sous la 1re ligne, trois colonnes : les altérations empilées à gauche ; au centre le bandeau d'objectif, puis les barres du Gardien et du cryopode, empilées dans un même conteneur (`.hudmid`) ; à droite, sous le sac, la pastille des reliques ouvertes (icône à la couleur de la relique en cours, anneau des réactifs, nombre ouvert). Libellés courts : Portail dans, Vague suivante, Ennemis restants, Traque la cible n, Capture la cible n, Vers l'extraction, Reste dans la zone. Les flèches hors écran restent sous le HUD (bord haut mesuré, `arrowK`).
+- Capture en chaîne : après chaque capture, tant qu'on ne s'est pas extrait, une nouvelle cible apparaît 5 s plus tard (`CAP_NEXT`), loin du héros. La zone d'extraction s'ouvre à la 1re capture et ne bouge plus. Le niveau affiche le nombre de captures ; dessous, la distance de l'extraction ou « Cible n dans x s ». Coopération : compteur et délai passent dans l'état du mode ; chacun reçoit sa relique à chaque capture.
+- Relique de capture : celle de la difficulté et du Tourment (Ossuaire hors Tourment, Ancestrale en I à V, Sanguine ou Abyssale en VI à X), sans le niveau minimum de mission (`relicDrop(true)`). Les autres reliques (monstres, élites, Gardiens, fins de manche) et leurs taux ne changent pas.
+- Récupération des affixes : la recherche par affixe liste tous les objets qui la portent, sans « … et N autres ».
+- Tests : 82 (audit de chevauchement du HUD à 4 largeurs × 3 missions, flèches sous le HUD, capture en chaîne, relique de capture, cible suivante en coopération).
 
 **v116 · Bonus du Tourment, retour d'une autre appli.**
 
@@ -322,7 +330,7 @@ Compatibilité des sauvegardes : une sauvegarde sans `meta.unlV` (v107 et plus a
 | Réactifs par relique · ennemis corrompus | 30 · 10 % | 40 · 8 % | 10 · 18 % |
 | Gardiens en Tourment (par vague · intervalle) | 2 puis 3 · 40 → 30 s | 2 · 50 → 40 s | 4 à 5 · 25 → 16 s |
 | Vie des Gardiens en Tourment | ×1,5 | ×2 | ×1 |
-| Niveau requis : Ancestrale, Sanguine, Abyssale | 30, 40, 45 | 30, 40, 45 | aucun |
+| Niveau requis : Ancestrale, Sanguine, Abyssale (pas pour une cible capturée) | 30, 40, 45 | 30, 40, 45 | aucun |
 | Fabrication · Bonus de la Forge (prix) | ×2 · ×3 | ×4 · ×6 | ×1 |
 | Fusion de rang (or) | 40 × 2^rang × (rareté + 1) × (1 + niveau/20) | base 120 | gratuite |
 | Rang max des objets de monstres (commun, magique, rare) | 3, 4, 5 | 2, 3, 4 | 10 |
@@ -414,7 +422,7 @@ Sauvegarde : « Exporter » télécharge aussitôt crypte-sauvegarde-AAAA-MM-JJ.
 
 **Armurerie, deux vues (v82)** : puces Recettes (toutes les recettes, comme avant) et Mes armes (compteur = armes possédées). Mes armes liste les armes possédées de toutes les classes, héros courant en premier, de la plus rare à la moins rare : niveau +n, dégâts de base et affixes réels (amélioration et affixes ajoutées comprises), maîtrise, nombre de mods posés. Pour le héros courant : DPS estimé avec l'équipement porté et écart en % avec l'arme équipée, bouton Équiper.
 
-Fin de manche et objectif (v81, mis à jour v91) : le résumé de sortie affiche des compteurs : équipements = total + nombre par rareté, reliques = total + nombre par type (Ossuaire, Ancestrale, Sanguine, Abyssale), armes ramassées = total + nombre par rareté. Un bandeau d'objectif centré sous le HUD donne l'étape, la valeur en grand et une jauge : Survie = temps avant le portail (orange pulsant sous 15 s) ; Capture = 1/3 mettre la cible à terre, 2/3 la capturer, 3/3 rejoindre l'extraction ; Défense = vague suivante ou ennemis restants, jauge = vie du cryopode.
+Fin de manche et objectif (v81, mis à jour v91) : le résumé de sortie affiche des compteurs : équipements = total + nombre par rareté, reliques = total + nombre par type (Ossuaire, Ancestrale, Sanguine, Abyssale), armes ramassées = total + nombre par rareté. Un bandeau d'objectif centré sous le HUD donne l'étape, la valeur en grand et une jauge : Survie = temps avant le portail (orange pulsant sous 15 s) ; Capture = traque la cible n (distance), capture la cible n (%), vers l'extraction (distance), reste dans la zone (%) ; Défense = vague suivante ou ennemis restants, jauge = vie du cryopode.
 
 Écran de fin de mission réussie (v83, mis à jour v91) : deux encadrés de compteurs. Butin rapporté : équipements (total + par rareté), reliques ramassées (total + par type), armes ramassées. Reliques ouvertes : total + par type, essence gagnée (25 par relique), fragments (nombre et nombre d'objets différents), objets prêts à fabriquer (par nom), œufs de familier, reliques non ouvertes. Le détail relique par relique est replié sous « Détail des n reliques », puis la maîtrise.
 
